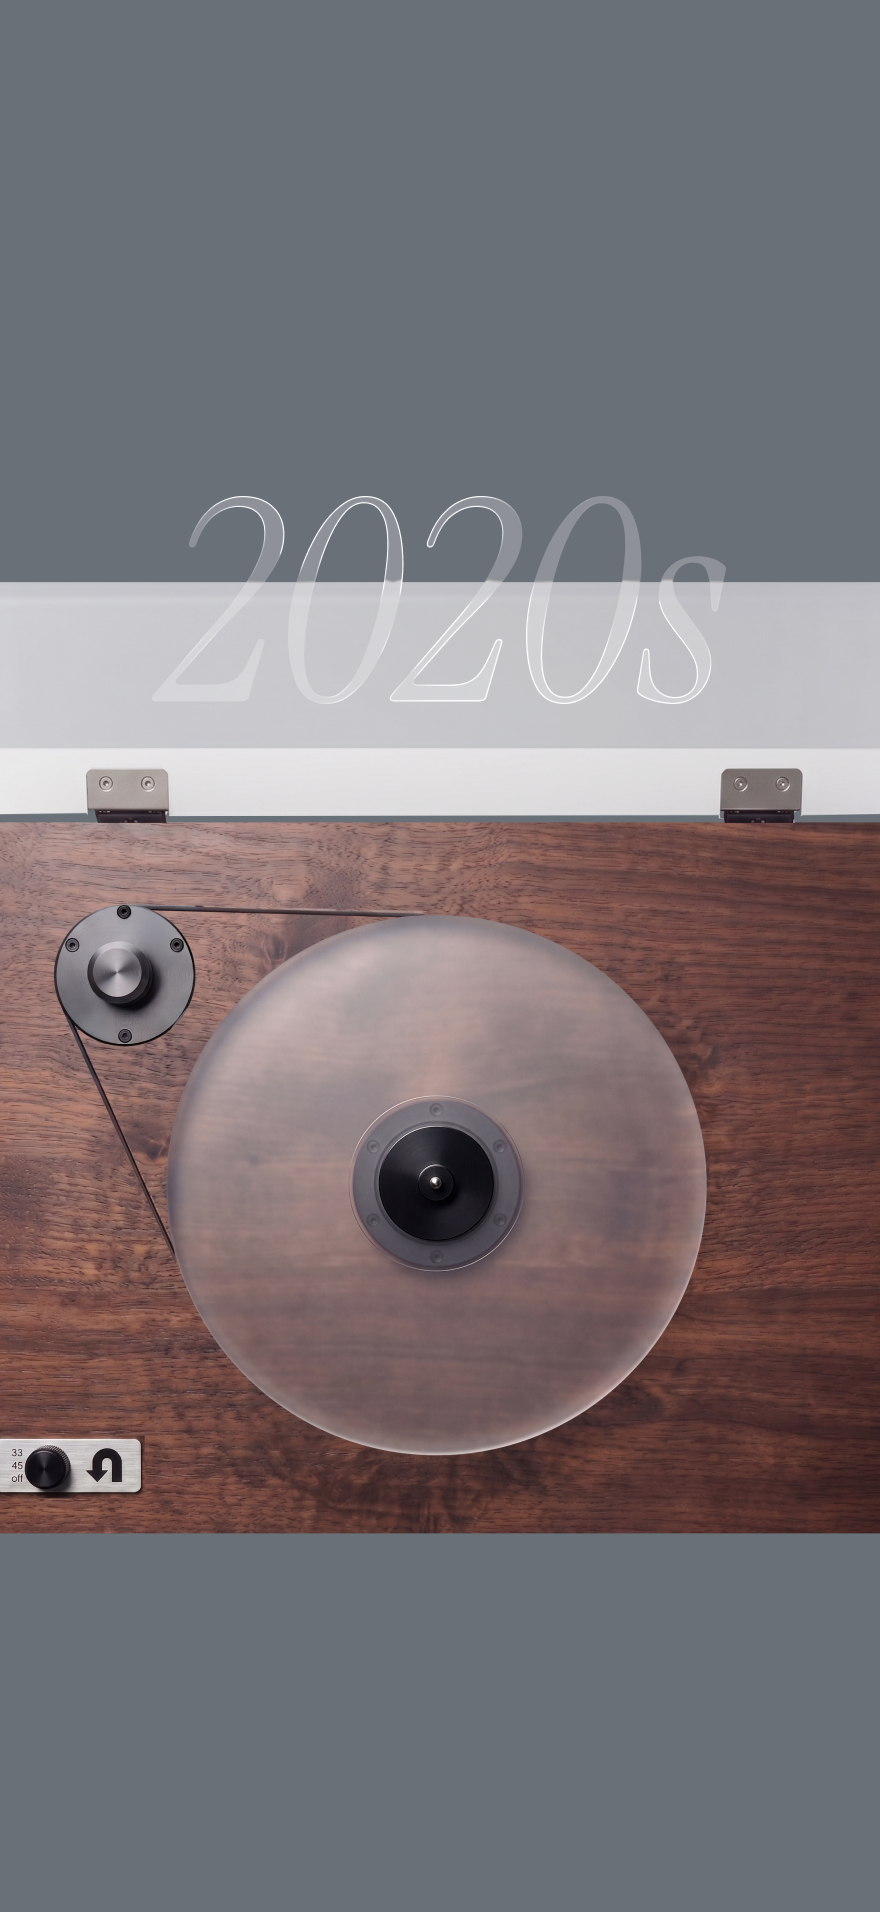
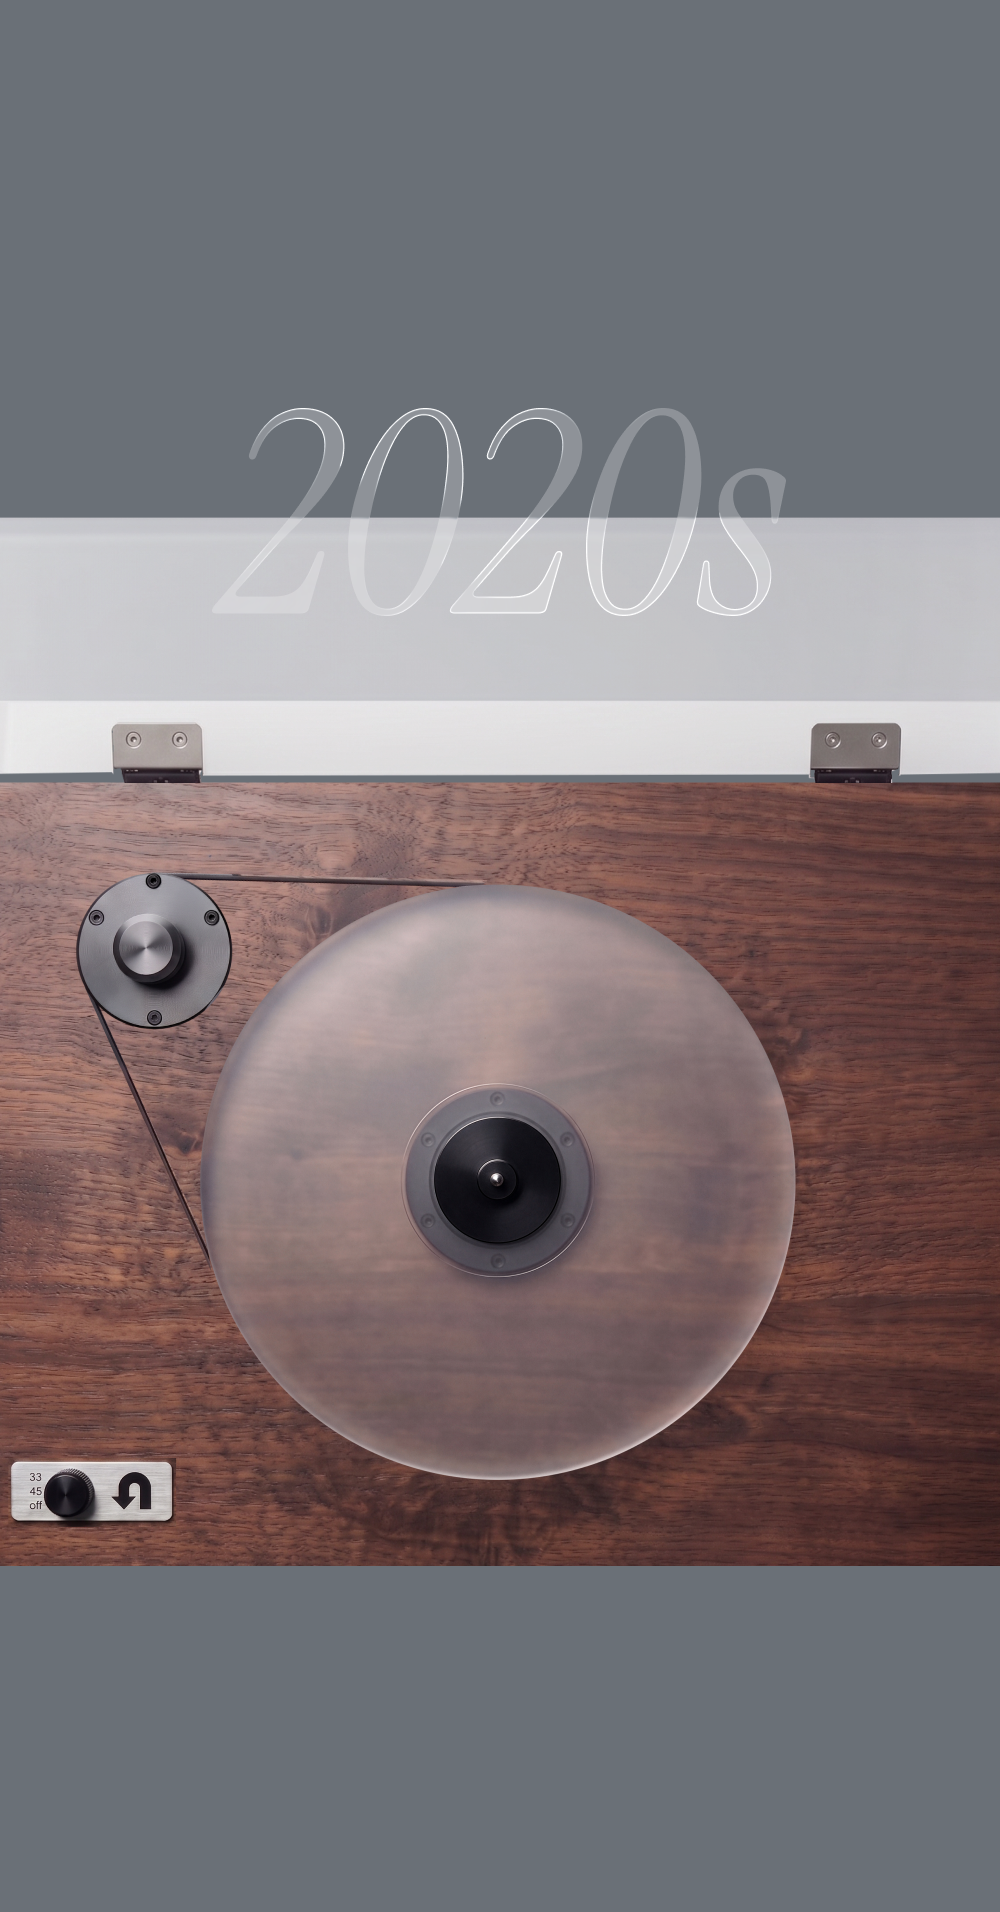
auto-commit for ce4b1926-83db-4f01-9ac0-9b4dd00ec407

diff --git a/frontend/src/App.js b/frontend/src/App.js
@@ -14,8 +14,8 @@ const TONEARM_URL =
 const STAGE_W = 2048;
 const STAGE_H = 1152;
 
-// Mobile stage matches the mobile bg artwork (880 x 1912 ≈ iPhone 16/17 Pro Max).
-const MOBILE_STAGE_W = 880;
+// Mobile stage matches the mobile bg artwork (1000 x 1912 ≈ iPhone 16/17 Pro Max).
+const MOBILE_STAGE_W = 1000;
 const MOBILE_STAGE_H = 1912;
 
 // Mobile/desktop breakpoint (portrait phone vs everything else)
